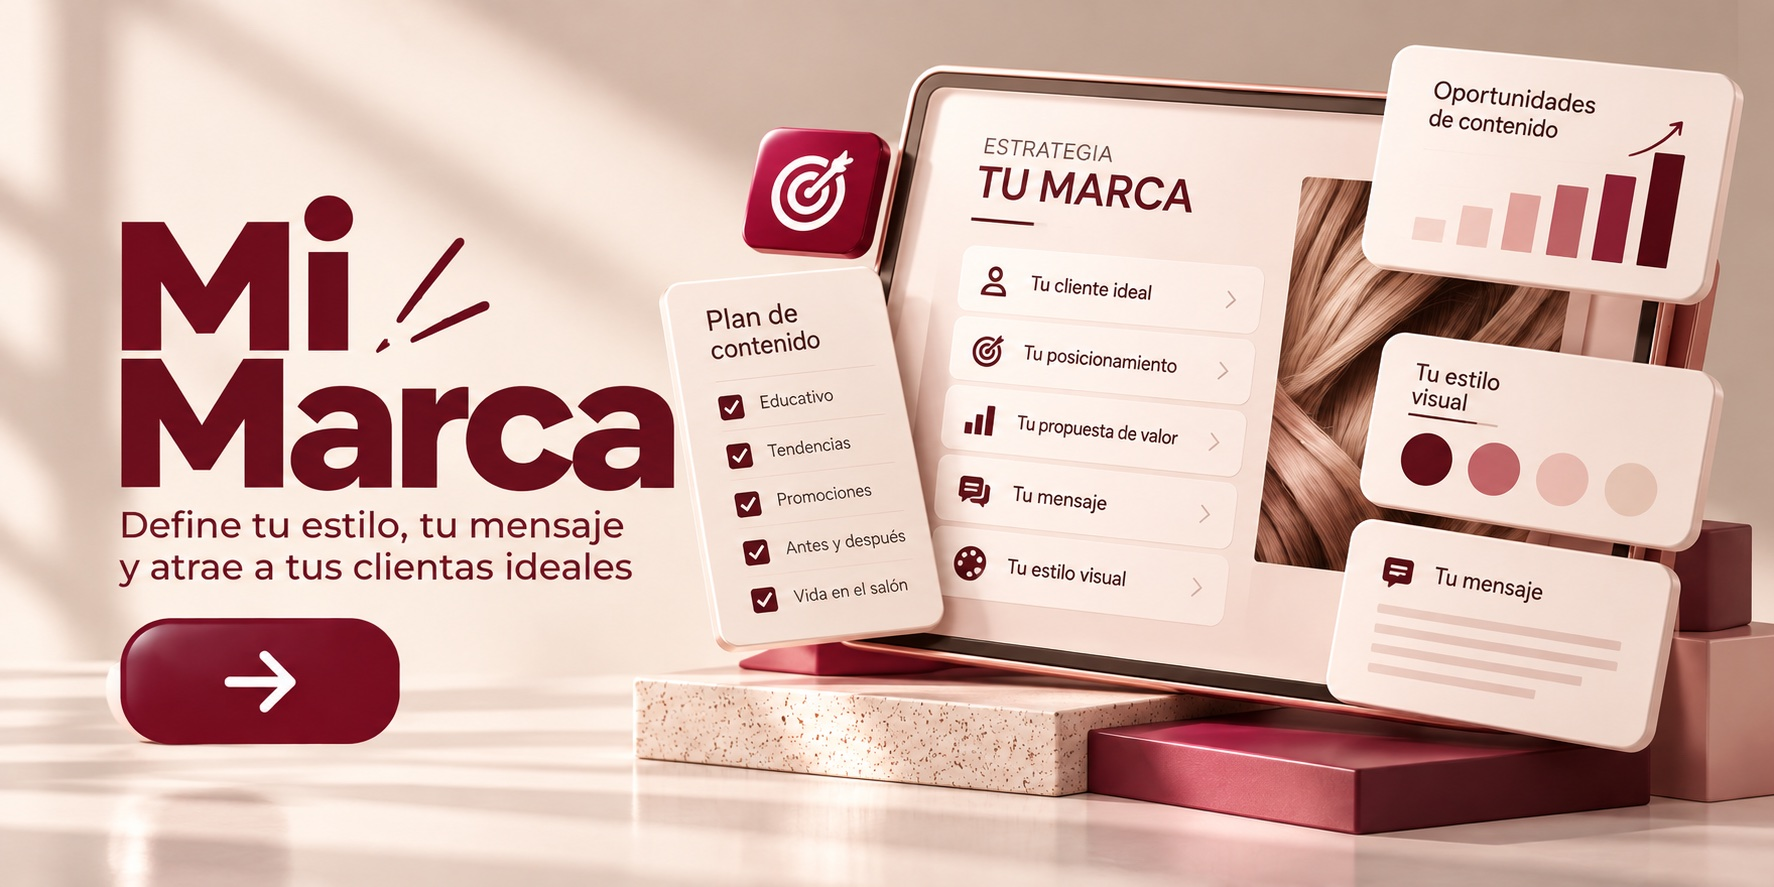
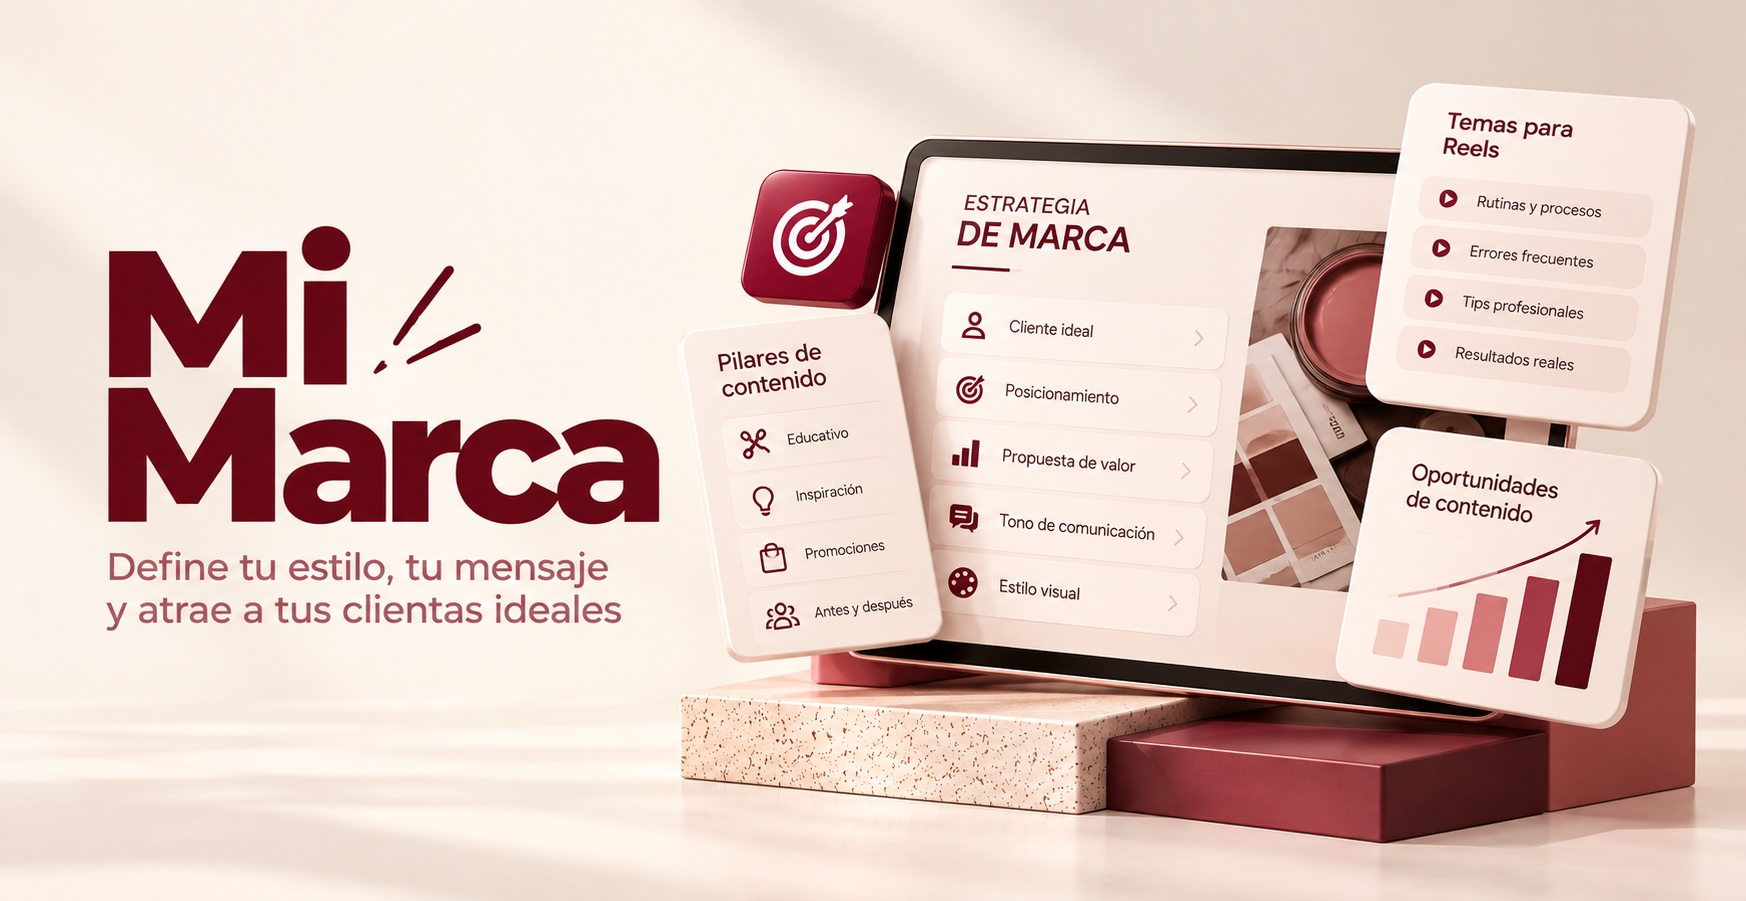
Portadas Mi Marca y Transiciones v2; Reto 10K al final del grid de inicio

diff --git a/client/components/home/tiles.ts b/client/components/home/tiles.ts
@@ -3,8 +3,7 @@ import { AppTileProps } from './AppTile'
 
 // Launcher de mini-apps — vive en /herramientas (Home v2 ya no es catálogo).
 export const TILES_NORMAL: AppTileProps[] = [
-  { href: '/reto-10k', icon: Rocket, label: 'Reto 10K', desc: 'Reto de 30 días', tone: 'cherry' },
-  { href: '/mi-marca', icon: Star, label: 'Mi Marca', desc: 'Perfil de tu salón', tone: 'buttermilk', image: '/tiles/mi-marca-banner.jpg' },
+  { href: '/mi-marca', icon: Star, label: 'Mi Marca', desc: 'Perfil de tu salón', tone: 'buttermilk', image: '/tiles/mi-marca-banner.jpg', imageAspect: '1746 / 901' },
   { href: '/planificar', icon: Sparkles, label: 'Planificar', desc: 'Ideas para el mes', tone: 'pink', image: '/tiles/planificar-banner.jpg' },
   { href: '/crear-contenido', icon: Film, label: 'Guiones', desc: '5 ideas → guion listo', tone: 'blue', image: '/tiles/guiones-banner.jpg' },
   { href: '/carrusel', icon: Images, label: 'Carrusel', desc: 'Carrusel listo para publicar', tone: 'green' },
@@ -14,6 +13,7 @@ export const TILES_NORMAL: AppTileProps[] = [
   { href: '/transiciones-reels', icon: Wand2, label: 'Transiciones Reels', desc: 'El corte que engancha', tone: 'blue', image: '/tiles/transiciones-banner.jpg', imageAspect: '1746 / 901' },
   { href: '/biblioteca', icon: BookOpen, label: 'Biblioteca', desc: 'Todo tu contenido', tone: 'buttermilk', image: '/tiles/biblioteca-banner.jpg' },
   { href: '/calendario', icon: Calendar, label: 'Calendario', desc: 'Tu plan del mes', tone: 'green', image: '/tiles/calendario-banner.jpg' },
+  { href: '/reto-10k', icon: Rocket, label: 'Reto 10K', desc: 'Reto de 30 días', tone: 'cherry' },
 ]
 
 export const TILES_PREMIUM: AppTileProps[] = [
